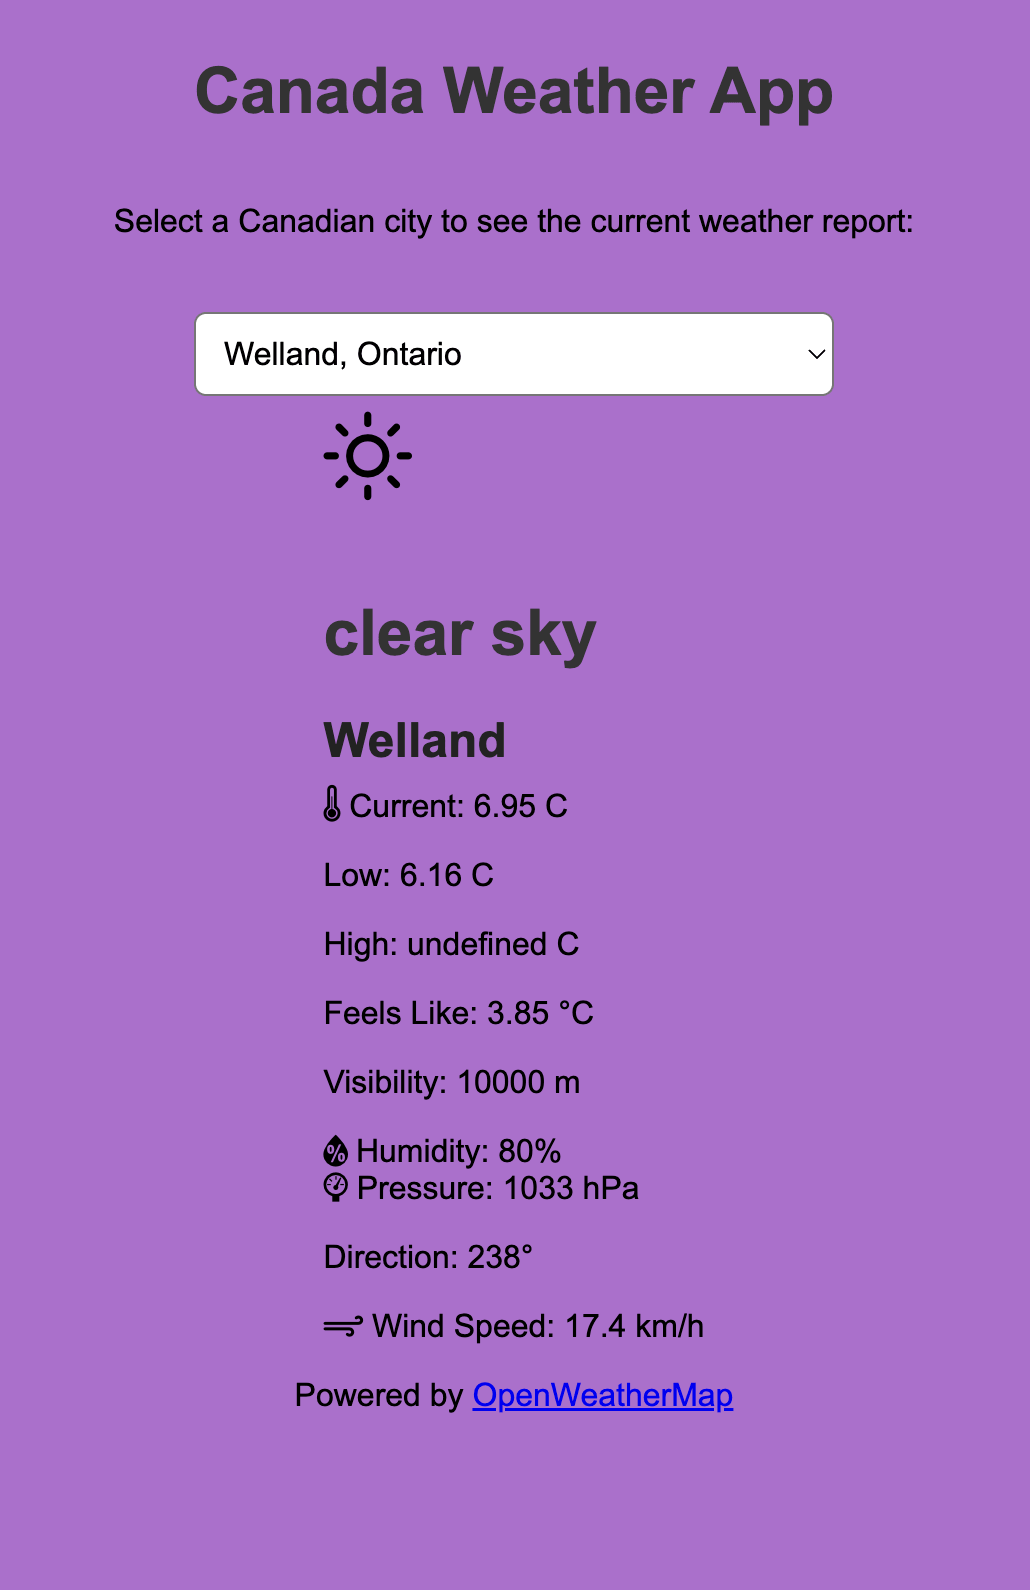
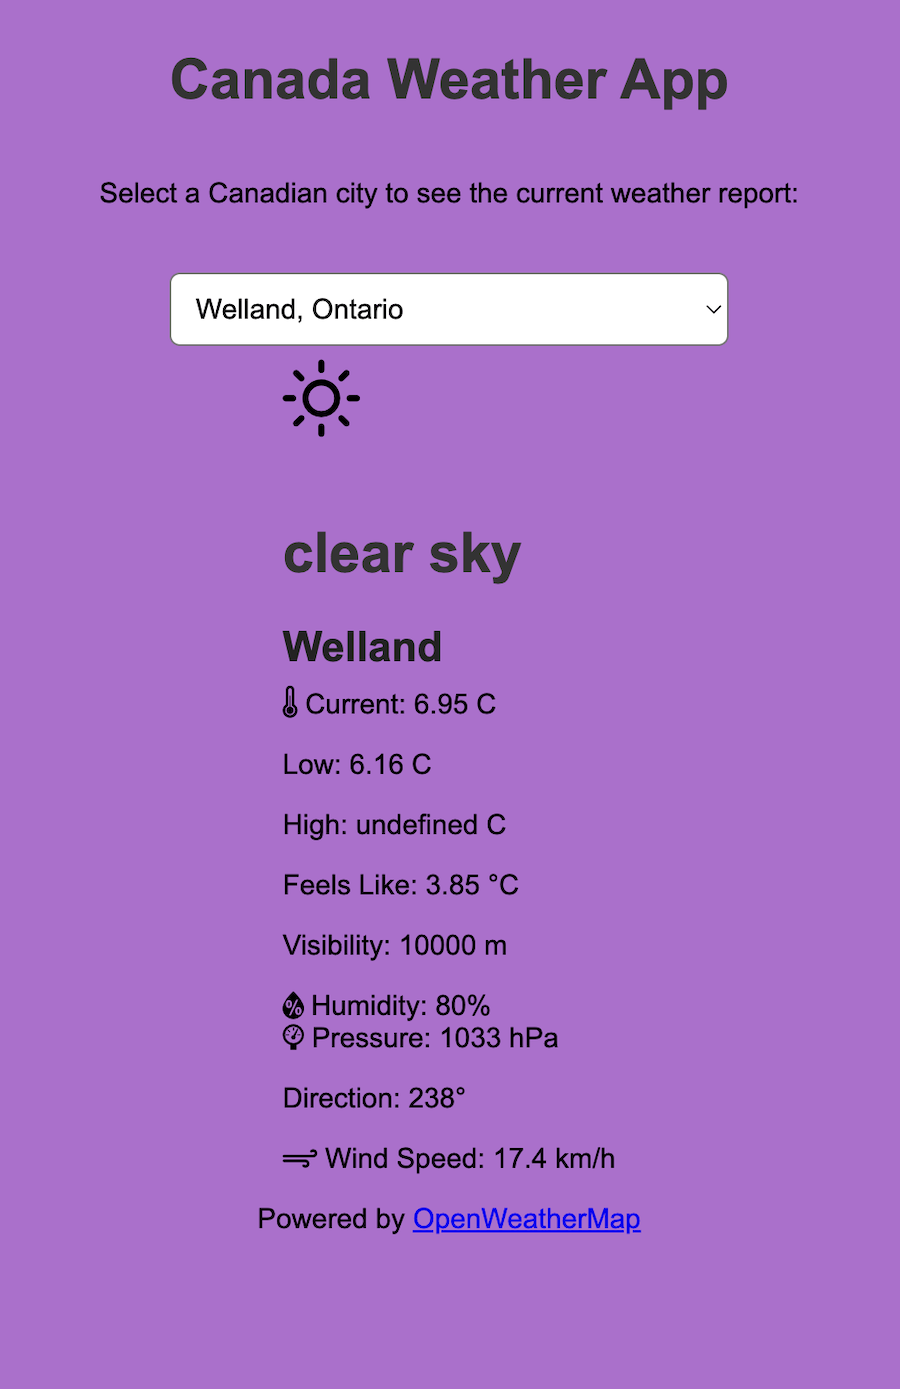
change picture style

Changed region(s): [[0.3111, 0.4953, 0.3422, 0.5263]]

diff --git a/styles.css b/styles.css
@@ -135,7 +135,7 @@ body {
   border-radius: 6px;
 }
 
-/* PROJECTS PAGE: 2x2 Grid */
+/* PROJECTS PAGE */
 .projects-grid {
   display: grid;
   grid-template-columns: repeat(2, 1fr);
@@ -165,13 +165,12 @@ body {
 }
 
 .project-item img {
-    width: 50%;
-    height: 240px;
+    width: 100%;
+    height: 300px;
     object-fit: contain;
     display: block;
-    background-color: #ffffff;
     border-radius: 12px;
-    margin-bottom: 15px;
+    background-color: transparent;
 }
 
 /* ABOUT PAGE: Single Column */
